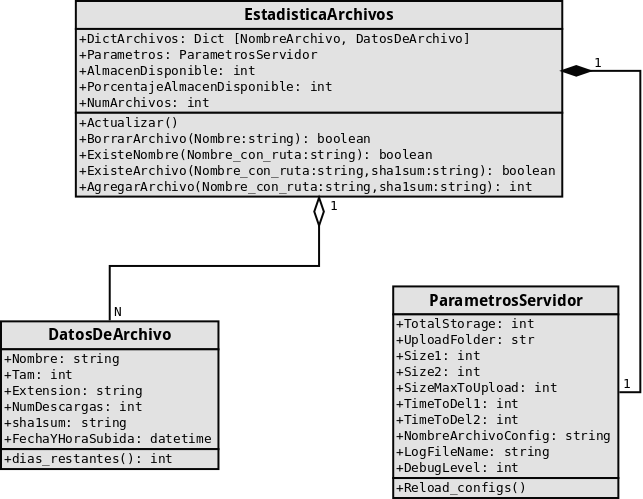
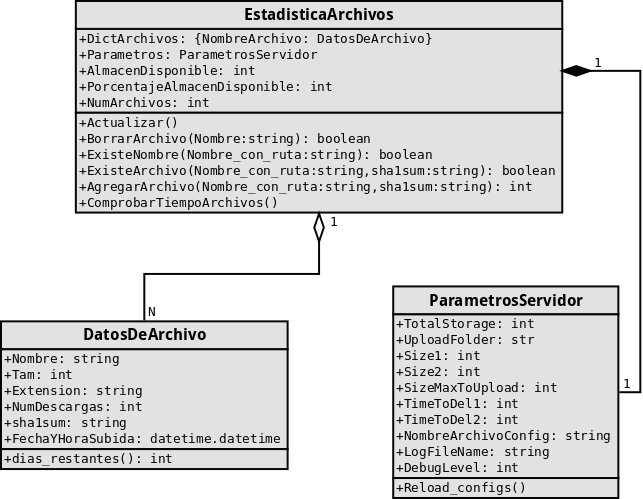
Agregado registro de archivos en EstadisticaArchivos al cargar /

Changed region(s): [[0.0622, 0.511, 0.4977, 0.9619], [0.0933, 0.3908, 0.902, 0.481], [0.2799, 0.0601, 0.7465, 0.0902]]

diff --git a/Estadisticas_Archivos.py b/Estadisticas_Archivos.py
@@ -17,7 +17,6 @@ You should have received a copy of the GNU General Public License
 along with this program.  If not, see <http://www.gnu.org/licenses/>.
   
 '''
-import hashlib
 from Parametros_Servidor import *
 from datos_archivo import *
 
@@ -29,18 +28,18 @@ class EstadisticaArchivos:
         self.PorcentajeAlmacenDisponible = 0
         self.NumArchivos = 0
         
-        self.DictArchivos = {'', DatosDeArchivo} # dummy
-        #self.init(self)
+        self.DictArchivos = {'': DatosDeArchivo} # dummy
+        #self.DictArchivos = {}
 
     def ExisteNombre(self,Nombre_con_ruta):
-        if Nombre_con_ruta in DictArchivos:
+        if Nombre_con_ruta in self.DictArchivos:
             return True
         else:
             return False
             
 
     def ExisteArchivo(self, Nombre_con_ruta, sha1sum):
-        if ExisteNombre(Nombre_con_ruta):
+        if self.ExisteNombre(Nombre_con_ruta):
             if sha1sum == DictArchivos[NombreArchivo].sha1sum:
                 return True
             else:
@@ -52,7 +51,7 @@ class EstadisticaArchivos:
     def AgregarArchivo(self, Nombre_con_ruta, tam, \
                        FechaYHoraDeSubida, Extension, sha1sum):
         
-        if ExisteArchivo(Nombre_con_ruta, sha1sum):
+        if self.ExisteArchivo(Nombre_con_ruta, sha1sum):
             print "[STORE] - Warn: File %s " % Nombre_con_ruta, \
                 "or sha1sum %s exists, not uploaded." %sha1sum
             return 1
@@ -62,3 +61,80 @@ class EstadisticaArchivos:
                 DatosDeArchivo(Nombre_con_ruta, tam, \
                                FechaYHoraDeSubida, Extension,sha1sum)
             
+    def BorrarArchivo(self, Nombre_con_ruta):
+        if self.ExisteNombre(Nombre_con_ruta):
+            # borra el archivo de disco
+            os.remove(Nombre_con_ruta)
+            
+            # borra el registro del archivo del diccionario de registros
+            del[self.DictArchivos[Nombre_con_ruta]]
+
+    # comprueba si uno o mas archivos han estado almacenados por mas
+    # dias de los especificados para su eliminacion.
+    # Los elimina automaticamente y los borra del registro
+    def ComprobarTiempoArchivos(self):
+        archivos_a_borrar = []
+        for na, da in self.DictArchivos.iteritems():
+            dt = datetime.datetime.now() - da.day
+            
+            # tamanyo
+            tamanyo = da.Tam
+            if tamanyo > self.Size1 and self.tamanyo < Size2:
+                if dt > self.TimeToDel1:
+                    archivos_a_borrar.append(na) # marca para borrar
+            elif tamanyo > self.Size2:
+                if  dt > self.TimeToDel2:
+                    archivos_a_borrar.append(na) # marca para borrar
+            
+        # borrado
+        for na in archivos_a_borrar:
+            # log
+            print '[REG] - Delete: File %(na)s size %(sz)d'\
+                % {'na': na , 'sz': self.DictArchivos[na].Tam} , 'created at',\
+                self.DictArchivos[na].FechaYHoraDeSubida , 'deleted!'
+
+            try:
+                os.remove(na) # borra archivo de disco
+            except OSError:
+                print '[REG] - Error: Trying to delete file %s' % na
+                
+            del(DictArchivos[na]) # borra del registro
+
+            
+
+    # comprueba las lista de archivos y si existen en el registro
+    # crea nuevos registros si hay archivos nuevos.
+    # Llama a la funcion ComprobarTiempoArchivos() para eliminar archivos
+    # automaticamente segun `Parametros'
+    def Actualizar(self):
+
+        # lista los archivos y comprueba si estan en los registros
+        try:
+            nombres = os.listdir(self.Parametros.UploadFolder)
+        except OSError:
+            pass
+        else:
+            for nomb in nombres:
+                nombre = os.path.join(self.Parametros.UploadFolder, nomb)
+                #nombre = secure_filename(nombre)
+                if self.ExisteNombre(nombre) == False:
+                    # actualizar registro del nuevo archivo 
+                    # este caso se deberia dar cuando se copia manualmente
+                    # archivos en la carpeta UploadFolder.
+                    
+                    #self.DictArchivos[nombre] = DatosArchivo
+                    dt_arch = DatosDeArchivo()
+                    dt_arch.auto_init(nombre)
+                    
+                    self.DictArchivos[nombre] = dt_arch
+                    
+                    # nuevo reg
+                    #self.getDictArchivos(nombre).auto_init(nombre)
+                    #self.DictArchivos[nombre].auto_init(nombre)
+
+                    # log TODO: activar este log solo si `LOG_REG' (implementar)
+                    print '[REG] - New: File %(na)s size %(sz)d'\
+                        % {'na': nombre , 'sz': self.DictArchivos[nombre].Tam},\
+                        'created at', self.DictArchivos[nombre].FechaYHoraDeSubida
+        # log
+        print '[REG] - Updated!'

diff --git a/botadero.py b/botadero.py
@@ -17,7 +17,7 @@ You should have received a copy of the GNU General Public License
 along with this program.  If not, see <http://www.gnu.org/licenses/>.
   
 '''
-import os
+#import os
 from flask import Flask
 from flask import render_template
 from flask import request, redirect, send_from_directory
@@ -28,16 +28,14 @@ from Estadisticas_Archivos import *
 from datos_archivo import *
 
 #cargar configuraciones del servidor
-EstadisticaArchivos = EstadisticaArchivos('parametros.txt',\
-                                              False)
+EstadisticaArchivos = EstadisticaArchivos('parametros.txt', False)
 ParametrosServer = EstadisticaArchivos.Parametros
 
-
 app = Flask(__name__)
-#app.config['UPLOAD_FOLDER'] = UPLOAD_FOLDER
 
 @app.route('/')
 def pag_principal():
+    EstadisticaArchivos.Actualizar()
     return render_template("index.html") + ls_archivos()
 
 ''' Peticiones para descarga de archivos subidos
@@ -87,23 +85,18 @@ def upload_file():
         if file:
             filename = secure_filename(file.filename)
 
-            # copia el contenido del archivo para comprobacion
-            # parece que al usar file.read() el contenido se 
-            # destruye
-            
             # TODO: Ver la forma de hacer el checksum a medida
             # los datos van llegando con haslib.update() para no
             # copiar el archivo (duplicacion)
-            filecont = file.read()
             
-            sha1sum = hashlib.sha1(filecont).hexdigest()
+            sha1sum = hashlib.sha1(file.read()).hexdigest()
             print "[UPLOAD] - Request to upload File %s" %filename,\
                 "checksum %s" % sha1sum
-    
-            # comprobar si existe el checksum
-            #os.remove(path) #para borrar el archivo
-        
-            # copia del archivo
+
+            # comprobar si el archivo ya existe, si no registrar
+            # ...
+
+            # restaura el puntero
             file.seek(0)
             file.save(os.path.join(app.config['UPLOAD_FOLDER'], filename))
     
@@ -111,9 +104,6 @@ def upload_file():
 
         return redirect("/", code=302)
         # http://stackoverflow.com/questions/14343812/redirecting-to-url-in-flask
-
-        #return "Subido: <h4>"+ filename + "</h4>" + pag_res
-        #redirect(url_for(''))
     else:
         return "Aaah?"
 
@@ -133,11 +123,10 @@ def ls_archivos():
     cad = '''
     <html> 
     <head>
-		 <meta http-equiv="Content-Type" content="text/html; charset=utf-8" />
-		<title>Archivador temporal para compartir archivos</title>
-		<link rel="stylesheet" href="../static/base.css" type="text/css" />
-
-	</head>
+     <meta http-equiv="Content-Type" content="text/html; charset=utf-8" />
+     <title>Archivador temporal para compartir archivos</title>
+     <link rel="stylesheet" href="../static/base.css" type="text/css" />
+    </head>
     <body>
 '''
     cad = cad + '<div id="lista_archivos">'
@@ -181,10 +170,7 @@ def ls_archivos():
 if __name__ == '__main__':
 
     # cargar configuraciones del servidor
-    # EstadisticaArchivos = EstadisticaArchivos('parametros.txt',\
-    #                                           False)
-    # ParametrosServer = EstadisticaArchivos.Parametros
-    #ParametrosServer = ParametrosServidor('parametros.txt', False)
+    
 
     print "[PARAMETERS] - TOTAL_STORAGE=%d" %ParametrosServer.TotalStorage
     print "[PARAMETERS] - UPLOAD_FOLDER=%s" %ParametrosServer.UploadFolder
@@ -199,4 +185,7 @@ if __name__ == '__main__':
     #app.config['MAX_CONTENT_LENGTH'] = ParametrosServer.SizeMaxToUpload
 
     app.debug = True
+
+
+
     app.run()

diff --git a/datos_archivo.py b/datos_archivo.py
@@ -22,17 +22,31 @@ import os, sys, datetime, hashlib
 
 class DatosDeArchivo:
     def __init__(self):
-        self.Nombre = '*'
+        self.Nombre = ''
         self.Tam = 0
         self.FechaYHoraDeSubida = datetime.datetime.now()
         self.Extension = ''
         self.NumDescargas = 0
         self.sha1sum = ''
 
-    # deberia determinar todos los demas atributos automaticamente
-    def __init__(self, Nombre_con_ruta):
+    def auto_init(self, Nombre_con_ruta):
         self.Nombre = Nombre_con_ruta
-        
+        ## determinacion de atributos
+        # tamanyo
+        self.Tam = os.stat(Nombre_con_ruta).st_size
+        # Extension
+        self.Extension = ''
+        if len(Nombre_con_ruta.rsplit('.', 1)) > 1:
+            self.Extension = Nombre_con_ruta.rsplit('.', 1 )[1]
+        # NumDescargas
+        self.NumDescargas = 0
+        # sha1sum
+        self.sha1sum = ''
+        with open(self.Nombre, 'r') as fil:
+            self.sha1sum = hashlib.sha1(fil.read())
+        # Fecha y hora simula creacion del archivo ahora.
+        self.FechaYHoraDeSubida = datetime.datetime.now()
+
 # Nota acerca del nombre del archivo
 #  espcificar el archivo con la ruta completa
 # ejemplo para obtener ruta segura:
@@ -40,18 +54,25 @@ class DatosDeArchivo:
 # se puede crear de forma segura con:
 #     DatosArchivo = DatosDeArchivo(os.path.join(ruta, nombre))
 
-    def __init__(self, Nombre_con_ruta, Tam, FechaYHoraDeSubida, Extension, sha1sum):
-        self.Nombre = Nombre_con_ruta
-        self.Tam = Tam
-        self.FechaYHoraDeSubida = FechaYHoraDeSubida
-        self.Extension = Extension
-        self.NumDescargas = 0
-        self.sha1sum = sha1sum
+    # def __init__(self, Nombre_con_ruta, Tam, FechaYHoraDeSubida, Extension, sha1sum):
+    #     self.Nombre = Nombre_con_ruta
+    #     self.Tam = Tam
+    #     self.FechaYHoraDeSubida = FechaYHoraDeSubida
+    #     self.Extension = Extension
+    #     self.NumDescargas = 0
+    #     self.sha1sum = sha1sum
 
     def dias_restantes(self):
-        return (datetime.datetime.now() - FechaYHoraDeSubida).days()
+        return (datetime.datetime.now() - self.FechaYHoraDeSubida).days()
 
-    
+
+
+
+
+
+
+
+
 
 '''
 Notas:
@@ -76,8 +97,6 @@ datetime
   Segundos
   >>> (datetime.datetime.now() - d1).seconds
   70
-  
-
 
   >>> datetime.datetime.now()
   datetime.datetime(2016, 3, 21, 16, 25, 19, 192717)

diff --git a/Parametros_Servidor.py b/Parametros_Servidor.py
@@ -18,11 +18,22 @@ along with this program.  If not, see <http://www.gnu.org/licenses/>.
   
 '''
 
-from flask import request, redirect, url_for
+#from flask import request, redirect, url_for
 from logs import initLogs
 
 class ParametrosServidor:
-    def __init__(self, nombre_archivo_config, DebugLevel):
+    NombreArchivoConfig = ''
+    TotalStorage = 0
+    UploadFolder = ''
+    Size1 = 0
+    Size2 = 0
+    TimeToDel1 = 0
+    TimeToDel2 = 0
+    SizeMaxToUpload = 0
+    LogFileName = ''
+    DebugLevel = 0
+        
+    def __init__(self):
         self.NombreArchivoConfig = 'parametros.txt'
         self.TotalStorage = 0
         self.UploadFolder = "almacen/"
@@ -32,7 +43,9 @@ class ParametrosServidor:
         self.TimeToDel2 = 0
         self.SizeMaxToUpload = 0
         self.LogFileName = 'botadero.log'
-        self.DebugLevel = 0
+        self.DebugLevel = 0        
+
+    def __init__(self, nombre_archivo_config, DebugLevel):
         self.init(nombre_archivo_config, DebugLevel)
 
     def init(self, nombre_archivo_config, DebugLevel):
